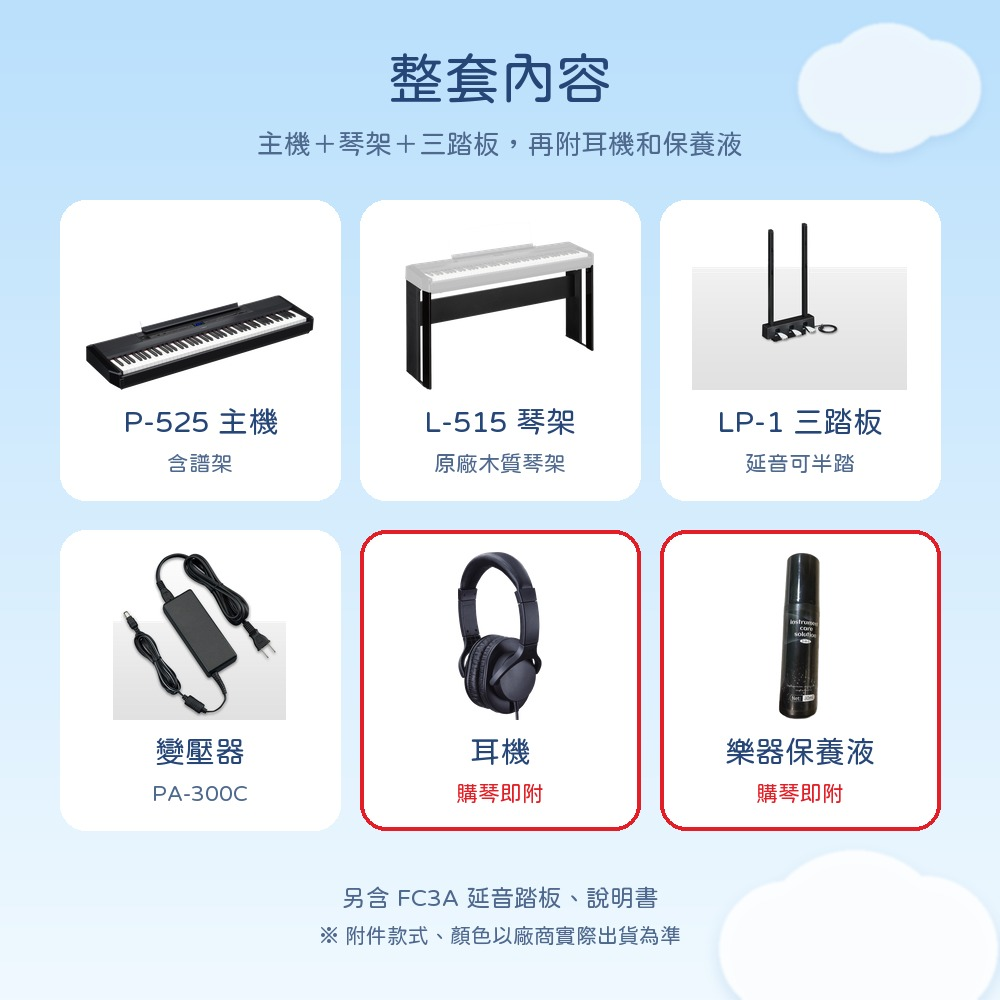
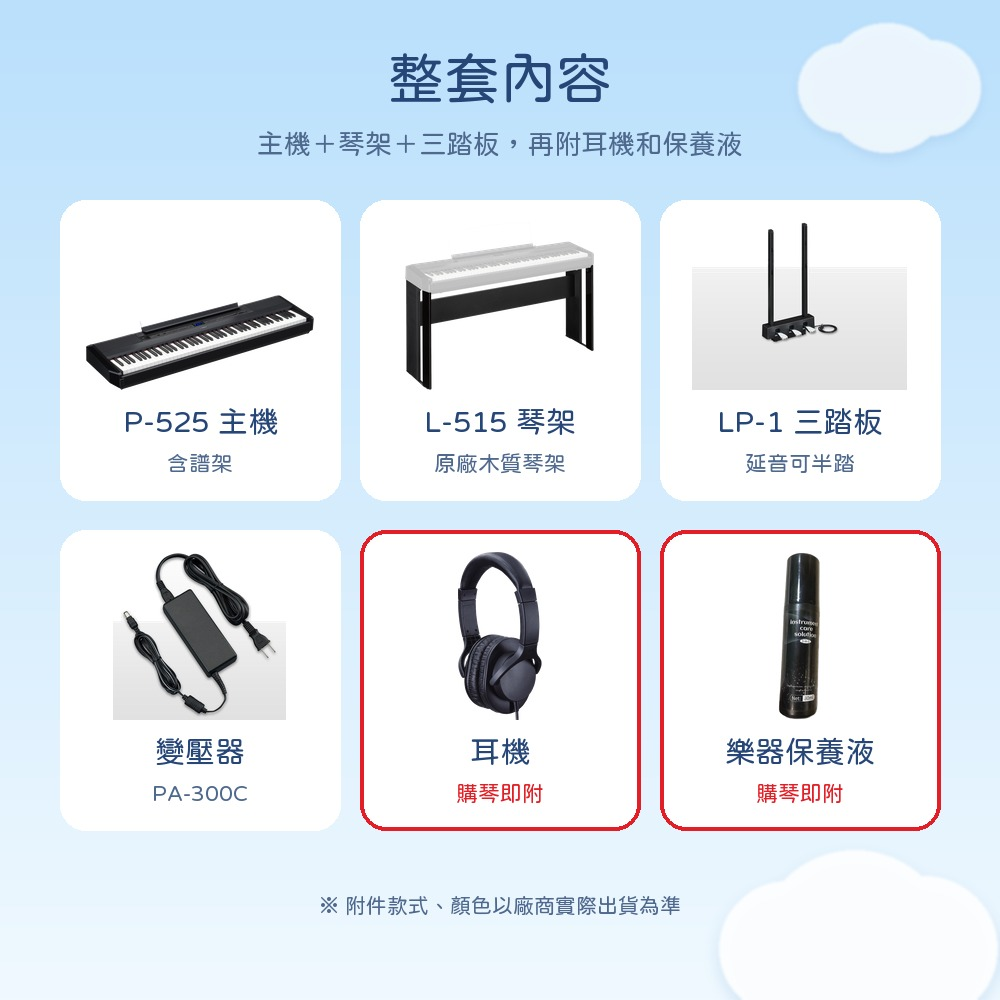
P-525 contents: drop FC3A line

Changed region(s): [[0.31, 0.868, 0.682, 0.961]]

diff --git a/piano/P-525/index.html b/piano/P-525/index.html
@@ -26,6 +26,6 @@ const S=[
  ["web","官網・輕巧風","米白紙感＋紙飛機，跟電商明顯不同"]];
 const F={"sky": ["P525_1_main_BK.jpg", "P525_1_main_WH.jpg", "P525_2_cover.jpg", "P525_3_stand.jpg", "P525_4_features.jpg", "P525_d01_brand.jpg", "P525_d02_keys.jpg", "P525_d03_sound.jpg", "P525_d04_speakers.jpg", "P525_d05_headphones.jpg", "P525_d06_app.jpg", "P525_d07_record.jpg", "P525_d08_practice.jpg", "P525_d09_stand_pedals.jpg", "P525_d10_contents.jpg", "P525_d11_size.jpg", "P525_d12_spec.jpg", "P525_d90_notice_buy.jpg", "P525_d91_notice_return.jpg", "P525_d92_notice_remote.jpg"], "apple": ["P525_1_main_BK.jpg", "P525_1_main_WH.jpg", "P525_2_cover.jpg", "P525_3_stand.jpg", "P525_4_features.jpg", "P525_d01_brand.jpg", "P525_d02_keys.jpg", "P525_d03_sound.jpg", "P525_d04_speakers.jpg", "P525_d05_headphones.jpg", "P525_d06_app.jpg", "P525_d07_record.jpg", "P525_d08_practice.jpg", "P525_d09_stand_pedals.jpg", "P525_d10_contents.jpg", "P525_d11_size.jpg", "P525_d12_spec.jpg", "P525_d90_notice_buy.jpg", "P525_d91_notice_return.jpg", "P525_d92_notice_remote.jpg"], "web": ["P525_web_1_cover.jpg", "P525_d01_brand.jpg", "P525_d02_keys.jpg", "P525_d03_sound.jpg", "P525_d04_speakers.jpg", "P525_d05_headphones.jpg", "P525_d06_app.jpg", "P525_d07_record.jpg", "P525_d08_practice.jpg", "P525_d09_stand_pedals.jpg", "P525_d10_contents.jpg", "P525_d11_size.jpg", "P525_d12_spec.jpg", "P525_d90_notice_buy.jpg", "P525_d91_notice_return.jpg", "P525_d92_notice_remote.jpg"]};
 const N={"P525_1_main_BK.jpg": "首圖・黑", "P525_1_main_WH.jpg": "首圖・白", "P525_2_cover.jpg": "封面", "P525_3_stand.jpg": "分離式琴架", "P525_4_features.jpg": "四大強項", "P525_web_1_cover.jpg": "官網底圖", "P525_d01_brand.jpg": "品牌介紹", "P525_d02_keys.jpg": "木質琴鍵", "P525_d03_sound.jpg": "雙名琴音色", "P525_d04_speakers.jpg": "雙向喇叭", "P525_d05_headphones.jpg": "耳機", "P525_d06_app.jpg": "藍牙App", "P525_d07_record.jpg": "錄音", "P525_d08_practice.jpg": "練習功能", "P525_d09_stand_pedals.jpg": "琴架三踏板", "P525_d10_contents.jpg": "整套內容", "P525_d11_size.jpg": "尺寸", "P525_d12_spec.jpg": "規格", "P525_d90_notice_buy.jpg": "購買須知", "P525_d91_notice_return.jpg": "退貨須知", "P525_d92_notice_remote.jpg": "偏遠地區"};
-const v="?v=2";
+const v="?v=3";
 document.getElementById("app").innerHTML=S.map(([k,t,d])=>`<section><h2>${t}</h2><p>${d}</p><div class="grid">${F[k].map(f=>`<div class="card"><a href="${k}/${f}${v}" target="_blank"><img loading="lazy" src="${k}/${f}${v}" alt="${N[f]}"></a><div class="cap"><span>${N[f]}</span><a href="${k}/${f}" download>下載</a></div></div>`).join("")}</div></section>`).join("");
 </script></body></html>
